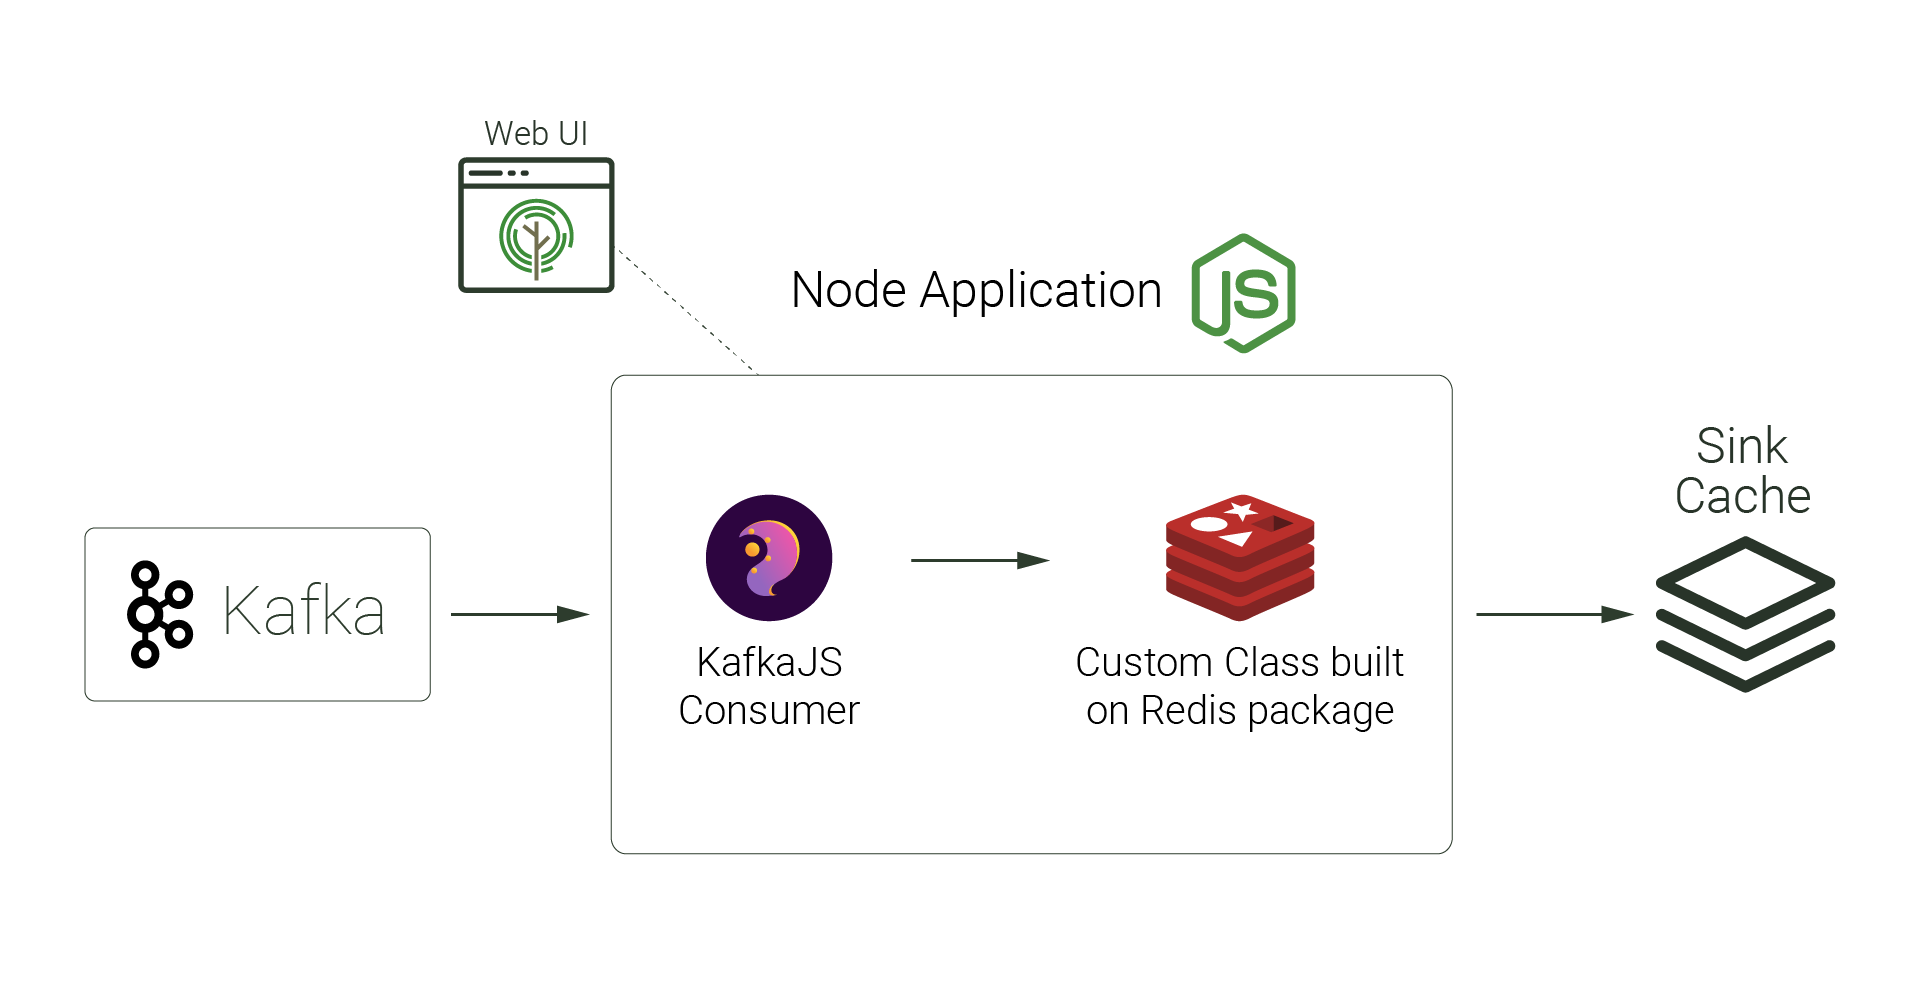
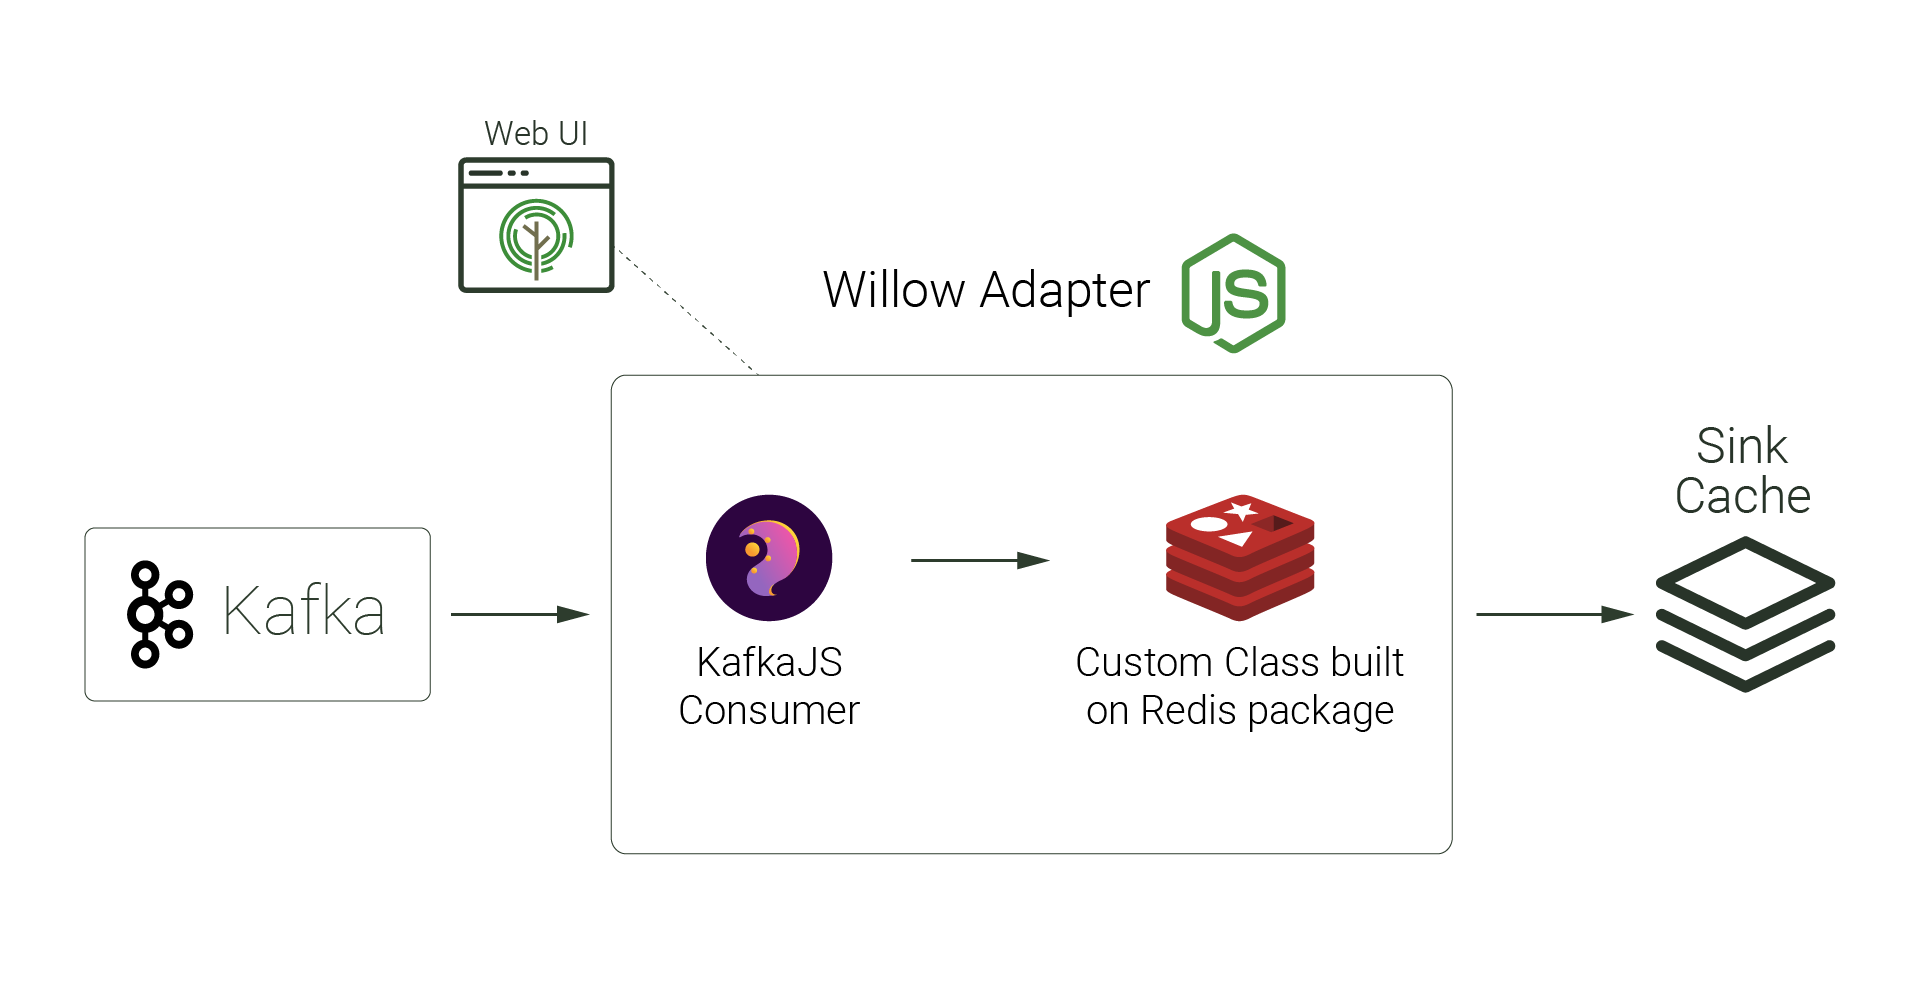
style(Images and styling): :lipstick: Make requested changes to images
Adjusted the PostgreSQL logo and substituted 'Node Application' with 'Willow Adapter' in the relevant images.

Changed region(s): [[0.406, 0.2179, 0.6871, 0.3735]]

diff --git a/src/pages/case-study.md b/src/pages/case-study.md
@@ -263,7 +263,7 @@ In order to provide a user-friendly UI for building a CDC pipeline, the NodeJS a
 
 <figure>
   <img src="/img/case-study/4.3-nodejs_v2.png" class="diagram" alt="Image demonstrating that data flows from Kafka into the NodeJS app then into the sink cache."/>
-  <figcaption>Figure 4.6: Data flows from Kafka into our Willow Adapter (the NodeJS Application) then into the sink cache</figcaption>
+  <figcaption>Figure 4.6: Data flows from Kafka into our Willow Adapter then into the sink cache</figcaption>
 </figure>
 
 ### 4.4 - PostgreSQL
